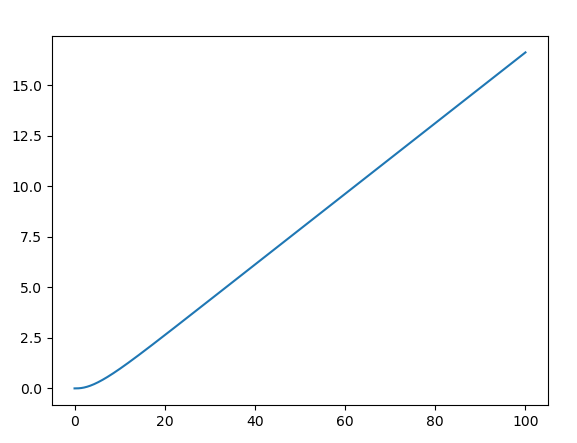
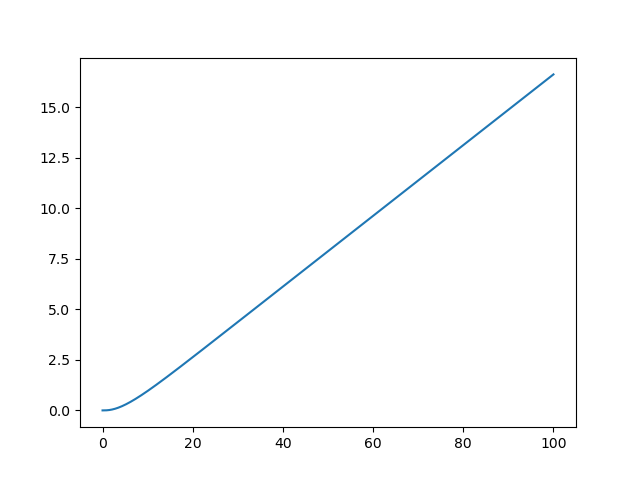
Save results automatically

diff --git a/SystemSim.py b/SystemSim.py
@@ -15,17 +15,21 @@ Nge = a*b*c
 print(Nge)
 
 t = np.linspace(0, 100, 1000)
-respostaImpulso, tempo = step(Nge, t)
-plt.plot(tempo, respostaImpulso)
+respostaDegrau, tempo = step(Nge, t)
+plt.plot(tempo, respostaDegrau)
+plt.savefig("results/respostaDegrau.png")
 plt.show()
 
 bode(Nge, Hz=True)
+plt.savefig("results/bodePlot.png")
 plt.show()
 
 rlocus(Nge)
+plt.savefig("results/rootLocus.png")
 plt.show()
 
 Ngerealimentado = Nge/(1+Nge)
 r, t = step(Ngerealimentado)
 plt.plot(t, r)
+plt.savefig("results/respostaDegrauRealimentado.png")
 plt.show()
